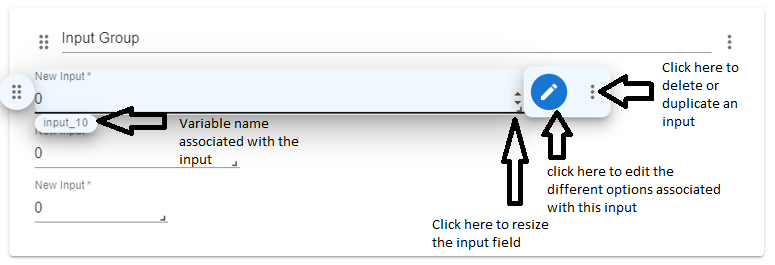
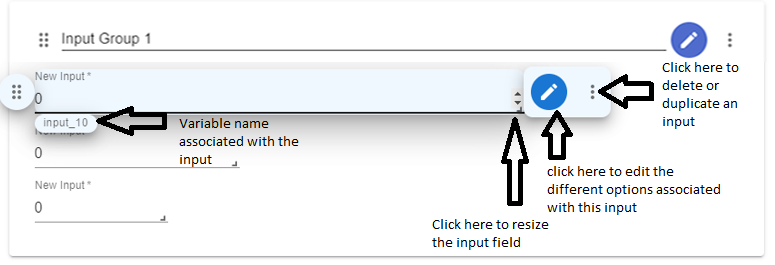
Updates (#11)

Changed region(s): [[0.031, 0.0604, 0.96, 0.2415]]

diff --git a/docs/getting-started/example-1.md b/docs/getting-started/example-1.md
@@ -28,7 +28,7 @@ To get started, go to [mecsimcalc.com/create](https://mecsimcalc.com/create), cl
 
 ## Step 2: Inputs
 
-Start by creating an input group by clicking on the ![img alt](/docs/getting-started/add_btn.png) button and choosing **Input Group**. A new input group will be created with the title: "New Input Group Title". Click on the title and change it to: "Converter".
+Start by creating an input group by clicking on the ![img alt](/docs/getting-started/add_btn.png) button and choosing **Input Group**. A new input group will be created with the title: "New Input Group Title". Click on the :pencil2: icon (in the top right of the input group) to edit the title and change it to: "Converter".
 
 <div style={{textAlign: 'center'}}>
 
@@ -50,7 +50,7 @@ Hover over "New Input" and click on the ![img alt](/docs/getting-started/edit_bt
 - Type "m" in the **units**.
 - Set the **default value** to 10.
 - In the Advanced options, change the **minimum value** to 0.
-- Change the step size to 0.001 allowing the precision to be in mm.
+- Change the step size to 0.001 (Allowing the precision to be in mm).
 
 Click on **APPLY CHANGES** to apply these new changes.
 
